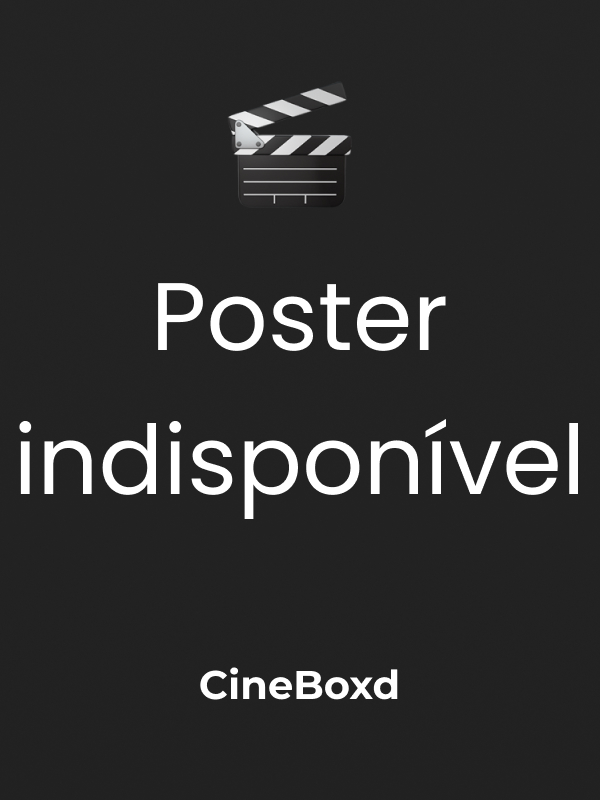
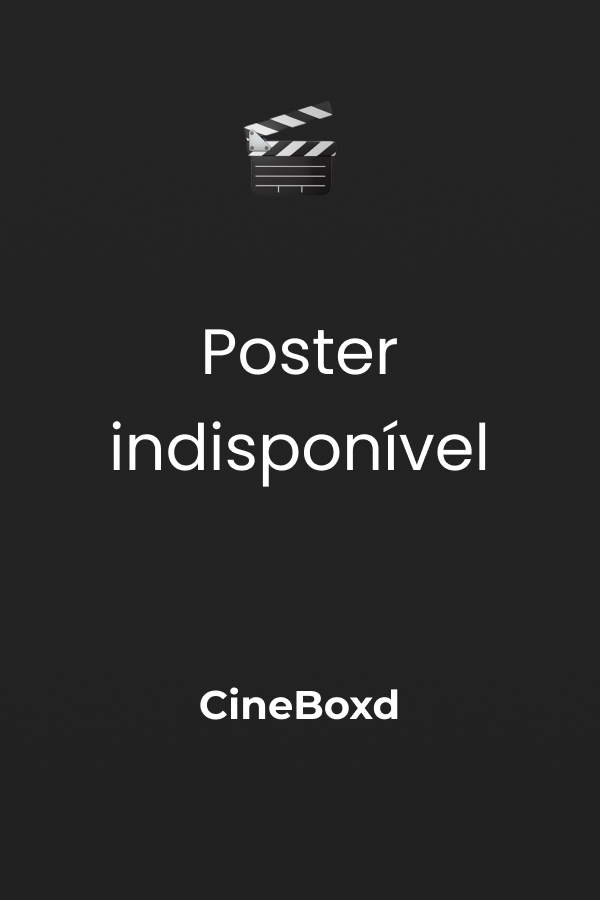
change img poster width

diff --git a/src/Pages/SearchResultsPage/SearchResultsPage.css b/src/Pages/SearchResultsPage/SearchResultsPage.css
@@ -3,23 +3,20 @@
   margin: 10rem auto 2rem auto;
   padding: 10px;
   display: grid;
-  grid-template-columns: 1fr 1fr 1fr;
+  grid-template-columns: repeat(auto-fill, minmax(180px, 1fr));
   gap: 25px;
 
   .movie-card-results {
-    /* border: 1px solid red; */
-    padding: 10px;
-    display: flex;
-    /* justify-content: center; */
-    gap: 10px;
-
     strong {
       font-weight: 300;
     }
     img {
-      max-width: 100%;
+      width: 100%;
       cursor: pointer;
+      aspect-ratio: 2 /3;
       transition: 0.1s;
+      object-fit: cover;
+      background: #0f0f0f;
 
       &:hover {
         scale: 1.05;

diff --git a/src/Pages/SearchResultsPage/SearchResultsPage.jsx b/src/Pages/SearchResultsPage/SearchResultsPage.jsx
@@ -19,7 +19,7 @@ const SearchResultsPage = () => {
           <Link to={`/movies/${result.id}`} key={result.id} >
             <div className='movie-card-results'>
               {console.log(imagePath)}
-              <img src={imagePath ? `https://image.tmdb.org/t/p/original/${imagePath}` : fallBack} alt={result.title} />
+              <img className='movie-poster' src={imagePath ? `https://image.tmdb.org/t/p/original/${imagePath}` : fallBack} alt={result.title} />
               {/* <h3>{result.title} <strong>{result.release_date}</strong></h3> */}
             </div>
           </Link>

diff --git a/src/Pages/MoviePage/Movie.jsx b/src/Pages/MoviePage/Movie.jsx
@@ -75,7 +75,7 @@ const Movie = ({ ativo, toggleModal }) => {
             }}
           >
             {ativo && <Modal ativo={ativo} onClose={toggleModal} />}
-            <img src={imagePath ? `https://image.tmdb.org/t/p/original/${imagePath}` : fallBack} alt={movie.title} />
+            <img className='movie-poster' src={imagePath ? `https://image.tmdb.org/t/p/original/${imagePath}` : fallBack} alt={movie.title} />
             <div className='movie-infos'>
 
               <h2>{movie.title}</h2>
